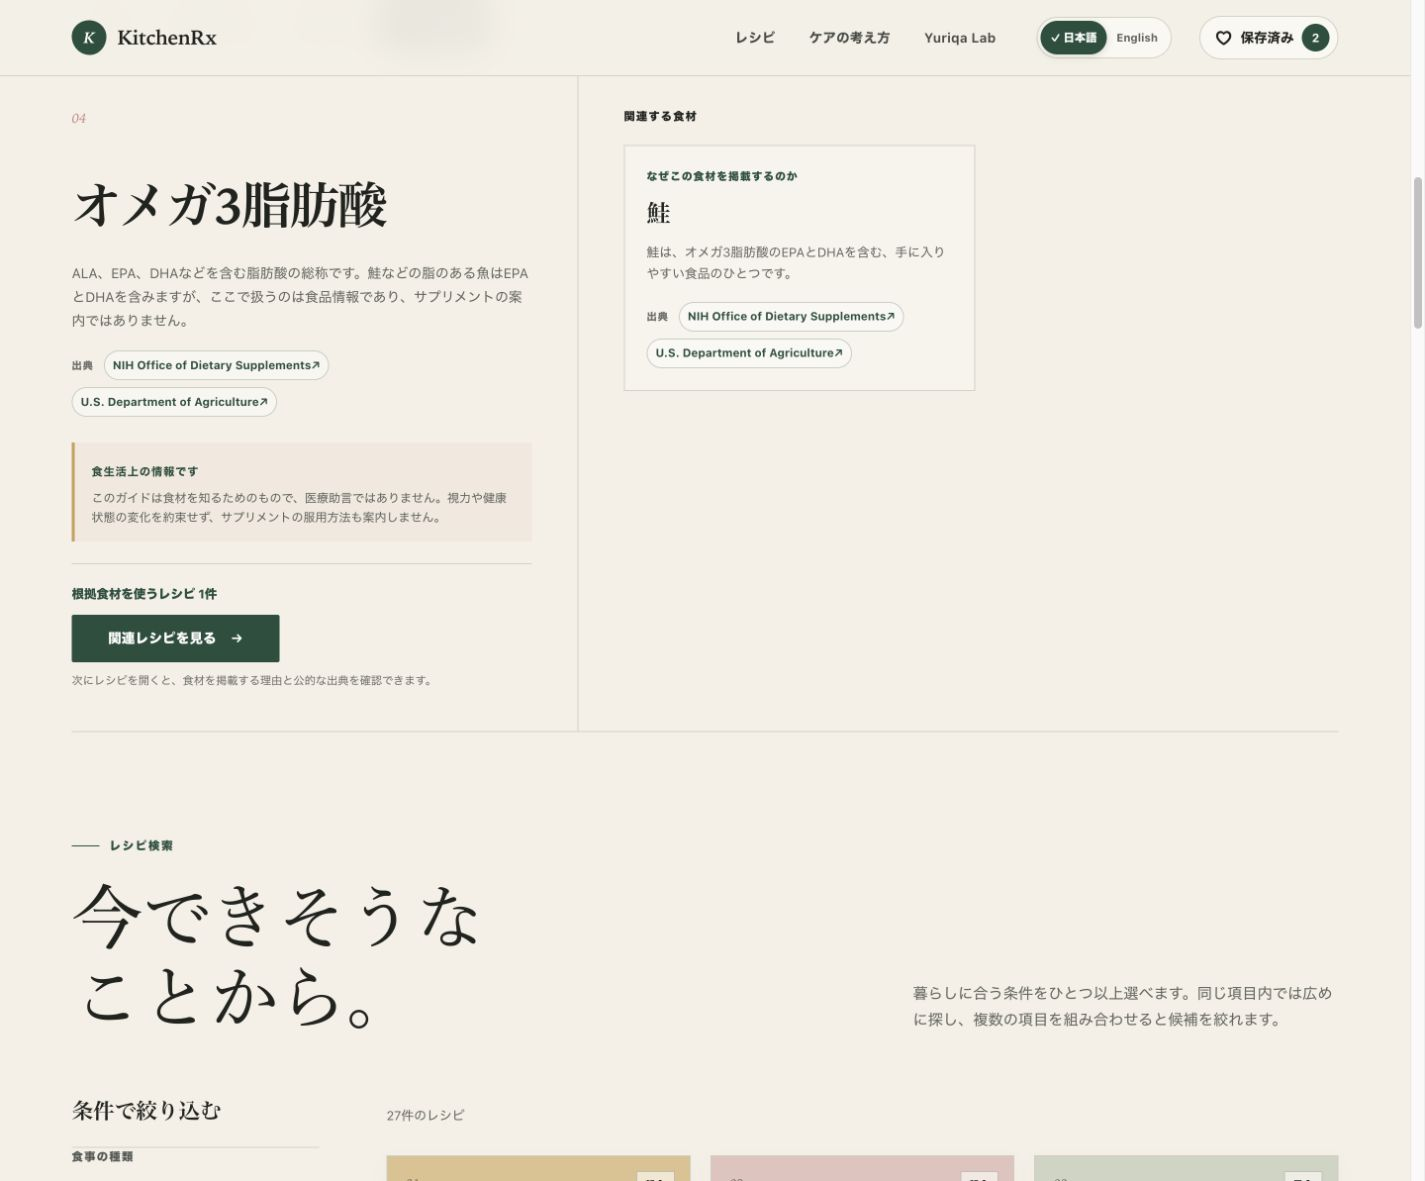
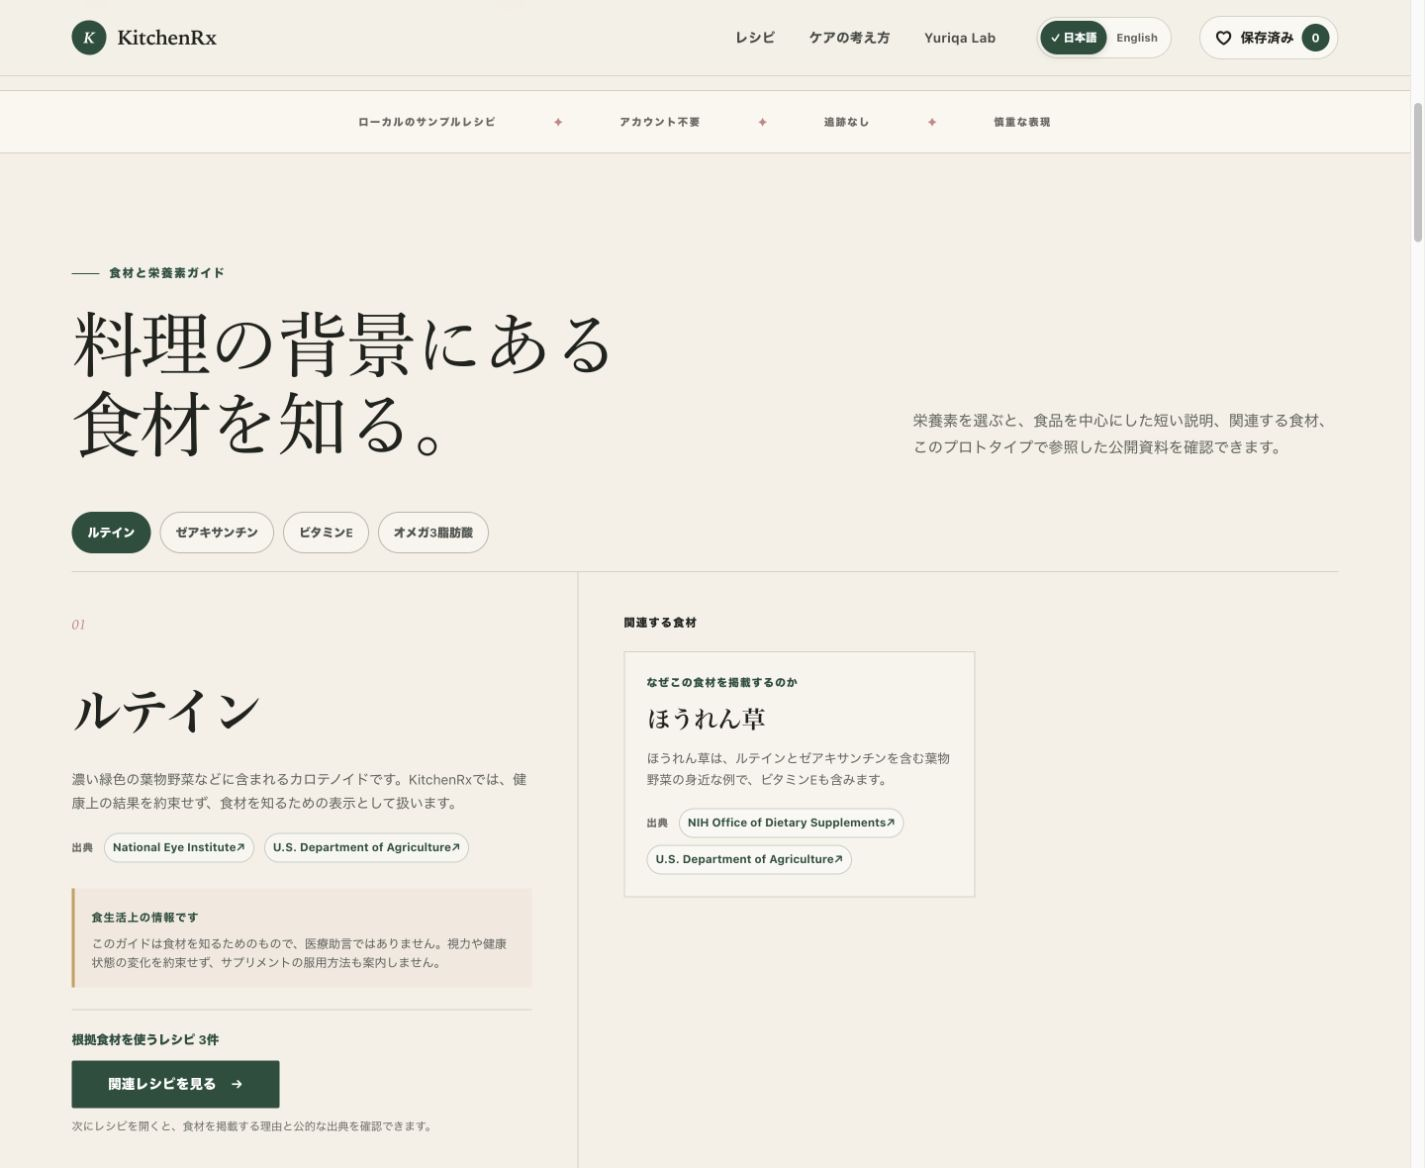
Refresh README screenshots for KitchenRx v3

diff --git a/README.md b/README.md
@@ -4,6 +4,8 @@ KitchenRx is a bilingual, care-oriented recipe and meal-support prototype by Yur
 
 This is a browser-focused portfolio prototype with no application data backend, not a production medical service.
 
+**Live demo:** [KitchenRx v3](https://kitchenrx-yuriqa-lab.lny-soul-bond.chatgpt.site/)
+
 ## Why it exists
 
 Food preparation is more than a recipe. It also includes deciding what feels possible, coordinating a shared meal, planning for cleanup, and protecting familiar routines. KitchenRx explores how hospitality knowledge and human-centered interface design can make those everyday decisions calmer and more manageable.
@@ -135,13 +137,13 @@ KitchenRx is a scoped bilingual portfolio prototype with 27 recipes written for 
 
 ### Japanese overview and trust information
 
-![KitchenRx Japanese desktop overview showing the purpose, privacy and non-medical notes, and the developer's culinary credentials](docs/screenshots/kitchenrx-hero-ja.jpg)
+![KitchenRx Japanese desktop overview showing the new meal-support hero image, purpose, privacy and non-medical notes, and the developer's culinary credentials](docs/screenshots/kitchenrx-hero-ja.jpg)
 
 ### Nutrient discovery and matching recipes
 
 <p align="center">
-  <img src="docs/screenshots/kitchenrx-nutrient-guide-ja.jpg" alt="KitchenRx Japanese omega-3 food-context guide with public sources, disclaimer, matching-recipe count, and Related recipes button" width="49%">
-  <img src="docs/screenshots/kitchenrx-nutrient-results-ja.jpg" alt="KitchenRx Japanese recipe results filtered to omega-3, showing one matching recipe and its nutrient evidence strip" width="49%">
+  <img src="docs/screenshots/kitchenrx-nutrient-guide-ja.jpg" alt="KitchenRx Japanese food-context guide showing all four nutrient chips, lutein information, public sources, disclaimer, matching-recipe count, and Related recipes button" width="49%">
+  <img src="docs/screenshots/kitchenrx-nutrient-results-ja.jpg" alt="KitchenRx Japanese recipe results filtered to lutein, showing three matching image cards and their nutrient evidence strips" width="49%">
 </p>
 
 ### Evidence-aware recipe detail
@@ -151,7 +153,7 @@ KitchenRx is a scoped bilingual portfolio prototype with 27 recipes written for 
 ### Mobile saved recipes and meal list
 
 <p align="center">
-  <img src="docs/screenshots/kitchenrx-mobile-meal-list-ja.jpg" alt="KitchenRx Japanese mobile layout showing a saved recipe card and the two-recipe meal list without horizontal overflow" width="390">
+  <img src="docs/screenshots/kitchenrx-mobile-meal-list-ja.jpg" alt="KitchenRx Japanese mobile meal-list section showing two saved recipes and the plain-text copy action without horizontal overflow" width="390">
 </p>
 
 ## License
